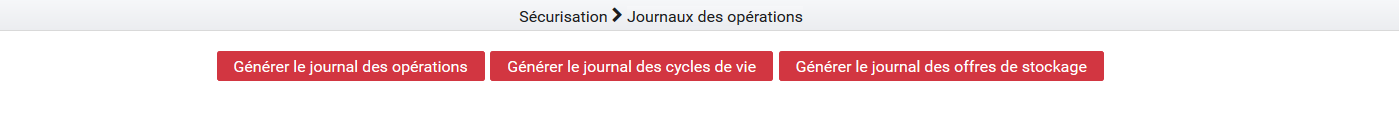
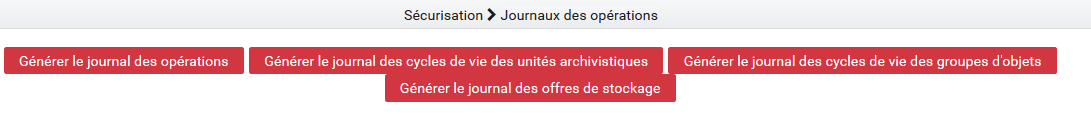
IHM recette corrections

Changed region(s): [[0.0, 0.3471, 0.9661, 0.8182], [0.3428, 0.0496, 0.6233, 0.1983], [0.0, 0.2479, 1.0, 0.2727]]

diff --git a/doc/fr/ihm-recette/tests.rst b/doc/fr/ihm-recette/tests.rst
@@ -44,6 +44,7 @@ Chaque ligne du fichier .csv représente une entrée. Les colonnes sont :
 * STP_SANITY_CHECK_SIP
 * SANITY_CHECK_SIP
 * CHECK_CONTAINER
+* MANIFEST_FILE_NAME_CHECK
 * STP_UPLOAD_SIP
 * STP_INGEST_CONTROL_SIP
 * PREPARE_STORAGE_INFO
@@ -64,6 +65,7 @@ Chaque ligne du fichier .csv représente une entrée. Les colonnes sont :
 * CHECK_ARCHIVE_UNIT_PROFILE
 * CHECK_CLASSIFICATION_LEVEL
 * UNITS_RULES_COMPUTE
+* STP_STORAGE_AVAILABILITY_CHECK
 * STP_STORAGE_AVAILABILITY_CHECK	STORAGE_AVAILABILITY_CHECK
 * STORAGE_AVAILABILITY_CHECK
 * STORAGE_AVAILABILITY_CHECK.STORAGE_AVAILABILITY_CHECK
@@ -109,14 +111,15 @@ Page Tests Fonctionnels
 
 La page est divisée en deux parties :
 
-  * Boutons de gestion
+  * Testsfonctionnels
   * Résultats des derniers tests
 
 .. image:: images/RECETTE_test_fonctionnels_ecran_principal.png
 
-Boutons de gestion
+Tests fonctionnels
 
 Bouton "Lancer les tests" : permet de rejouer les tests configurés. Ceci donnera lieu à la création d'un nouveau rapport.
+
 Bouton "Mise à jour référentiel" : permet de récupérer les derniers fichiers de configuration des tests depuis "Git" (gestionnaire de sources). Ainsi, si un utilisateur a ajouté des tests et que ceux-ci ont été intégrés à Git, le fait de cliquer sur ce bouton permet de les prendre en compte au prochain clic sur le bouton "Lancer les Tests".
 
   Résultat des derniers tests
@@ -124,9 +127,10 @@ Bouton "Mise à jour référentiel" : permet de récupérer les derniers fichier
 Les résultats de tests sont affichés dans un tableau à deux colonnes :
 
    Rapport
+
    Détail
 
-Chaque ligne représente le rapport issu d'une campagne de tests. La colonne "Rapport" indique le nom du rapport. Celui-ci est constitué de la façon suivante : report_AAAAMMJJ_HHmmss.json. Ainsi le rapport correspondant à la dernière campagne de tests se trouve au-dessus de la liste.
+Chaque ligne représente le rapport issu d'une campagne de tests. La colonne "Rapport" indique le nom du rapport. Celui-ci est constitué de la façon suivante : report_AAAAMMJJ_HHmmss.json. Ainsi le rapport correspondant à la dernière campagne de tests se trouve en bas de la liste.
 
 La colonne détail affiche simplement la mention "Accès au détail".
 

diff --git a/doc/fr/ihm-recette/recette.rst b/doc/fr/ihm-recette/recette.rst
@@ -47,6 +47,8 @@ Les pages accessibles sont réparties de la façon suivante :
 
 	* Administration des collections
         * Recherche et Modification d'un fichier	
+        * Ajout et suppression d'un parent
+        * Test audit correctif 
 
 **Tests**
 
@@ -92,4 +94,4 @@ Une fois le tenant sélectionné, les boutons précédement grisés sont activé
 Dans le reste de ce document, il est considéré que l'utilisateur s'est placé dans le tenant sur lequel il veut effectuer ses opérations.
 L'utilisateur peut changer de tenant à tout moment, en réitérant l'opération précédente.
 
-**NB :** le référentiel des formats et des contextes sont liés à la plateforme et non à un tenant. L'option de suppression des référentiel des formats et des contextes applicatifs est toujours disponible, même si aucun tenant n'est sélectionné.
+**NB :** le référentiel des formats, des contextes et des ontologies externes sont liés à la plateforme et non à un tenant. L'option de suppression des référentiels des formats, des contextes applicatifs et des ontologies externes est toujours disponible, même si aucun tenant n'est sélectionné.

diff --git a/doc/fr/ihm-recette/securisation.rst b/doc/fr/ihm-recette/securisation.rst
@@ -13,6 +13,8 @@ L'interface contient plusieurs boutons:
 * "Générer le journal des opérations" 
 * "Générer le journal des cycles de vie"
 * "Générer le journal des offres de stockage" 
+* "Générer le journal des cycles de vie des unités archivistiques"
+* "Générer le journal des cycles de vie des groupes d'objets"
 
 Au clic sur ce bouton, le système va lancer l'opération de sécurisation des journaux. Elle prendra en compte tous les journaux, du dernier créé au dernier non sécurisé. Un message s'affiche alors sur l'écran précisant le succès de l'opération.
 
